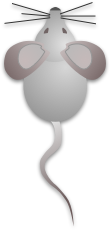
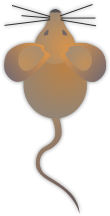
Improved quality of images; Added a few @2x images; Changed the colour of mouse; Changed the colour of app name at second screen; Changed bottom right corner at first screen;

diff --git a/Hunter/GameScene.swift b/Hunter/GameScene.swift
@@ -32,6 +32,7 @@ class GameScene: SKScene {
     let holeLocation = CGPoint(x: 1200, y: 600)
     let appName = "Sport Cat"
     let commonFont = "Helvetica Neue Light"
+    let commonBoldFont = "Helvetica Neue"
     
     
     // first screen elements
@@ -52,7 +53,7 @@ class GameScene: SKScene {
     var holdForSecondsTipLabel = SKLabelNode()
     var holdForSecondsTipLabelShadow = SKLabelNode()
     
-    let backBtnTouchDuration:UInt8 = 4
+    let backBtnTouchDuration:UInt8 = 3
     
     var mouse = SKSpriteNode()
     
@@ -91,7 +92,7 @@ class GameScene: SKScene {
         
         self.backgroundColor = SKColor.whiteColor()
         
-        bottomRight = SKSpriteNode(imageNamed: "bottomRight")
+        bottomRight = SKSpriteNode(imageNamed: "bottomRightCorner")
         bottomRight.anchorPoint = CGPoint(x: 1, y: 0)
         bottomRight.position = CGPoint(x: sceneSize.x, y: 0)
         bottomRight.name = "bottomRight"
@@ -124,13 +125,13 @@ class GameScene: SKScene {
         self.addChild(startLabelShadow)
         self.addChild(startLabel)
         
-        firstMouse = SKSpriteNode(imageNamed: "firstMouse")
+        firstMouse = SKSpriteNode(imageNamed: "mouseOrigamiBig")
         firstMouse.anchorPoint = CGPoint(x: 0.5, y: 0.5)
-        firstMouse.position = CGPoint(x: sceneSize.y - 115, y: 175)
+        firstMouse.position = CGPoint(x: sceneSize.y - 117, y: 175)
         firstMouse.name = "firstMouse"
         self.addChild(firstMouse)
         
-        firstCat = SKSpriteNode(imageNamed: "firstCat")
+        firstCat = SKSpriteNode(imageNamed: "catOrigami")
         firstCat.anchorPoint = CGPoint(x: 0, y: 1)
         firstCat.position = CGPoint(x: 0, y: sceneSize.y)
         firstCat.name = "firstCat"
@@ -177,6 +178,7 @@ class GameScene: SKScene {
         spriteArray.append(textureAtlas.textureNamed("M5"))
         spriteArray.append(textureAtlas.textureNamed("M6"))
         spriteArray.append(textureAtlas.textureNamed("M7"))
+        spriteArray.append(textureAtlas.textureNamed("M8"))
         
         mouse = SKSpriteNode(texture:spriteArray[0])
         mouse.position = CGPoint(x: 200, y: 200)
@@ -341,7 +343,7 @@ class GameScene: SKScene {
     
     func drawBackground()
     {
-        var background = SKSpriteNode(imageNamed: "gameBackground")
+        var background = SKSpriteNode(imageNamed: "background")
         background.anchorPoint = CGPoint(x: 0, y: 0)
         background.name = "bg"
         self.addChild(background)
@@ -352,7 +354,7 @@ class GameScene: SKScene {
     {
         
         gameNameLabel = SKLabelNode();
-        gameNameLabel.fontColor = SKColor(red: CGFloat(164/255.0), green: CGFloat(85/255.0), blue: CGFloat(164/255.0), alpha: 1)
+        gameNameLabel.fontColor = SKColor(red: CGFloat(250/255.0), green: CGFloat(165/255.0), blue: CGFloat(70/255.0), alpha: 1)
         gameNameLabel.text = "SPORT CAT"
         gameNameLabel.fontSize = 65;
         gameNameLabel.fontName = commonFont

diff --git a/Hunter/GameViewController.swift b/Hunter/GameViewController.swift
@@ -32,8 +32,6 @@ class GameViewController: UIViewController {
         if let scene = GameScene.unarchiveFromFile("GameScene") as? GameScene {
             // Configure the view.
             let skView = self.view as SKView
-            skView.showsFPS = true
-            skView.showsNodeCount = true
             
             /* Sprite Kit applies additional optimizations to improve rendering performance */
             skView.ignoresSiblingOrder = true
